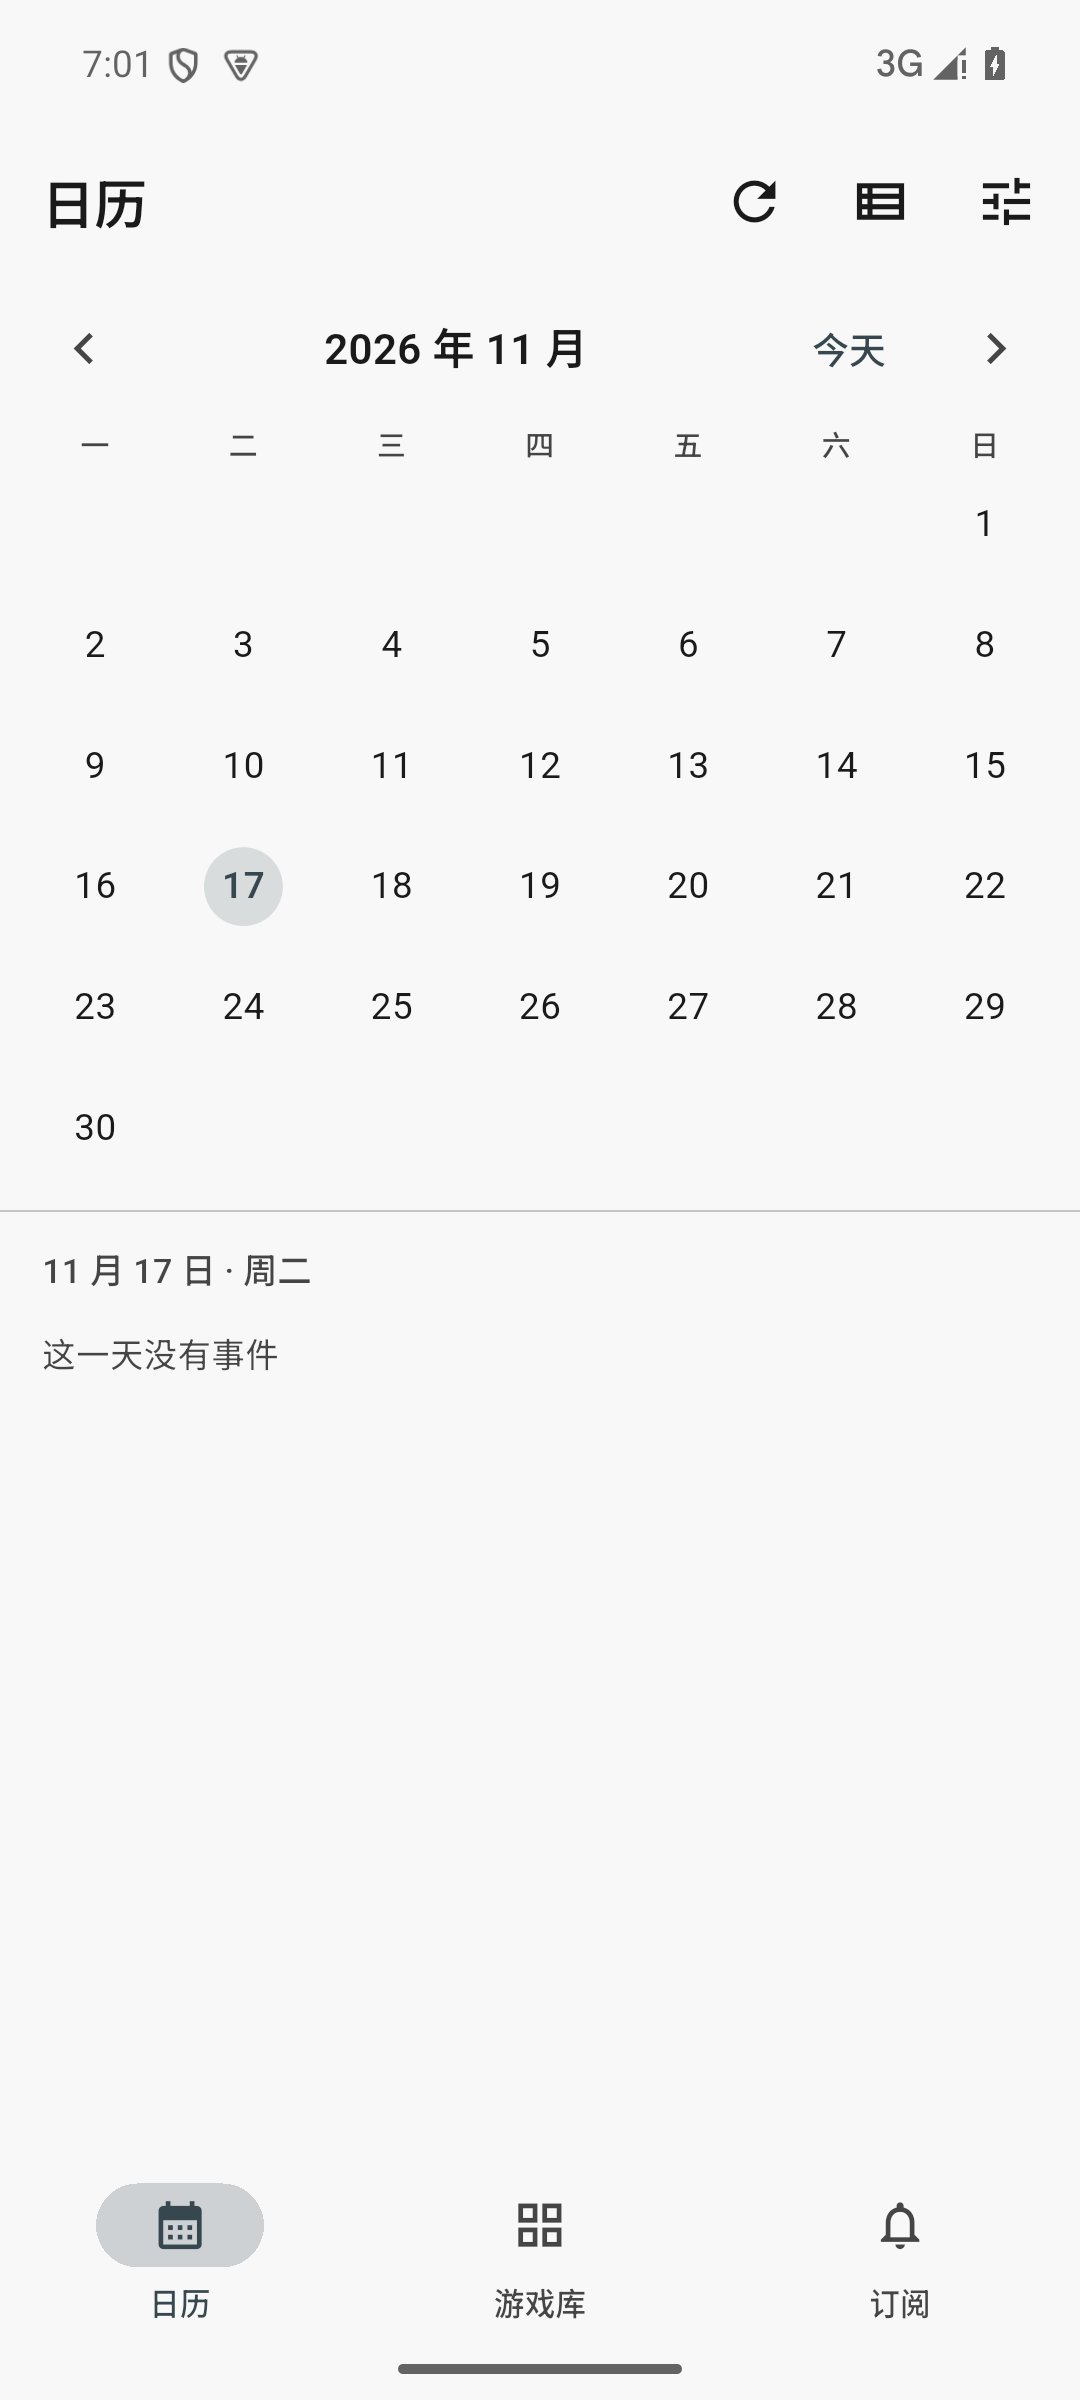
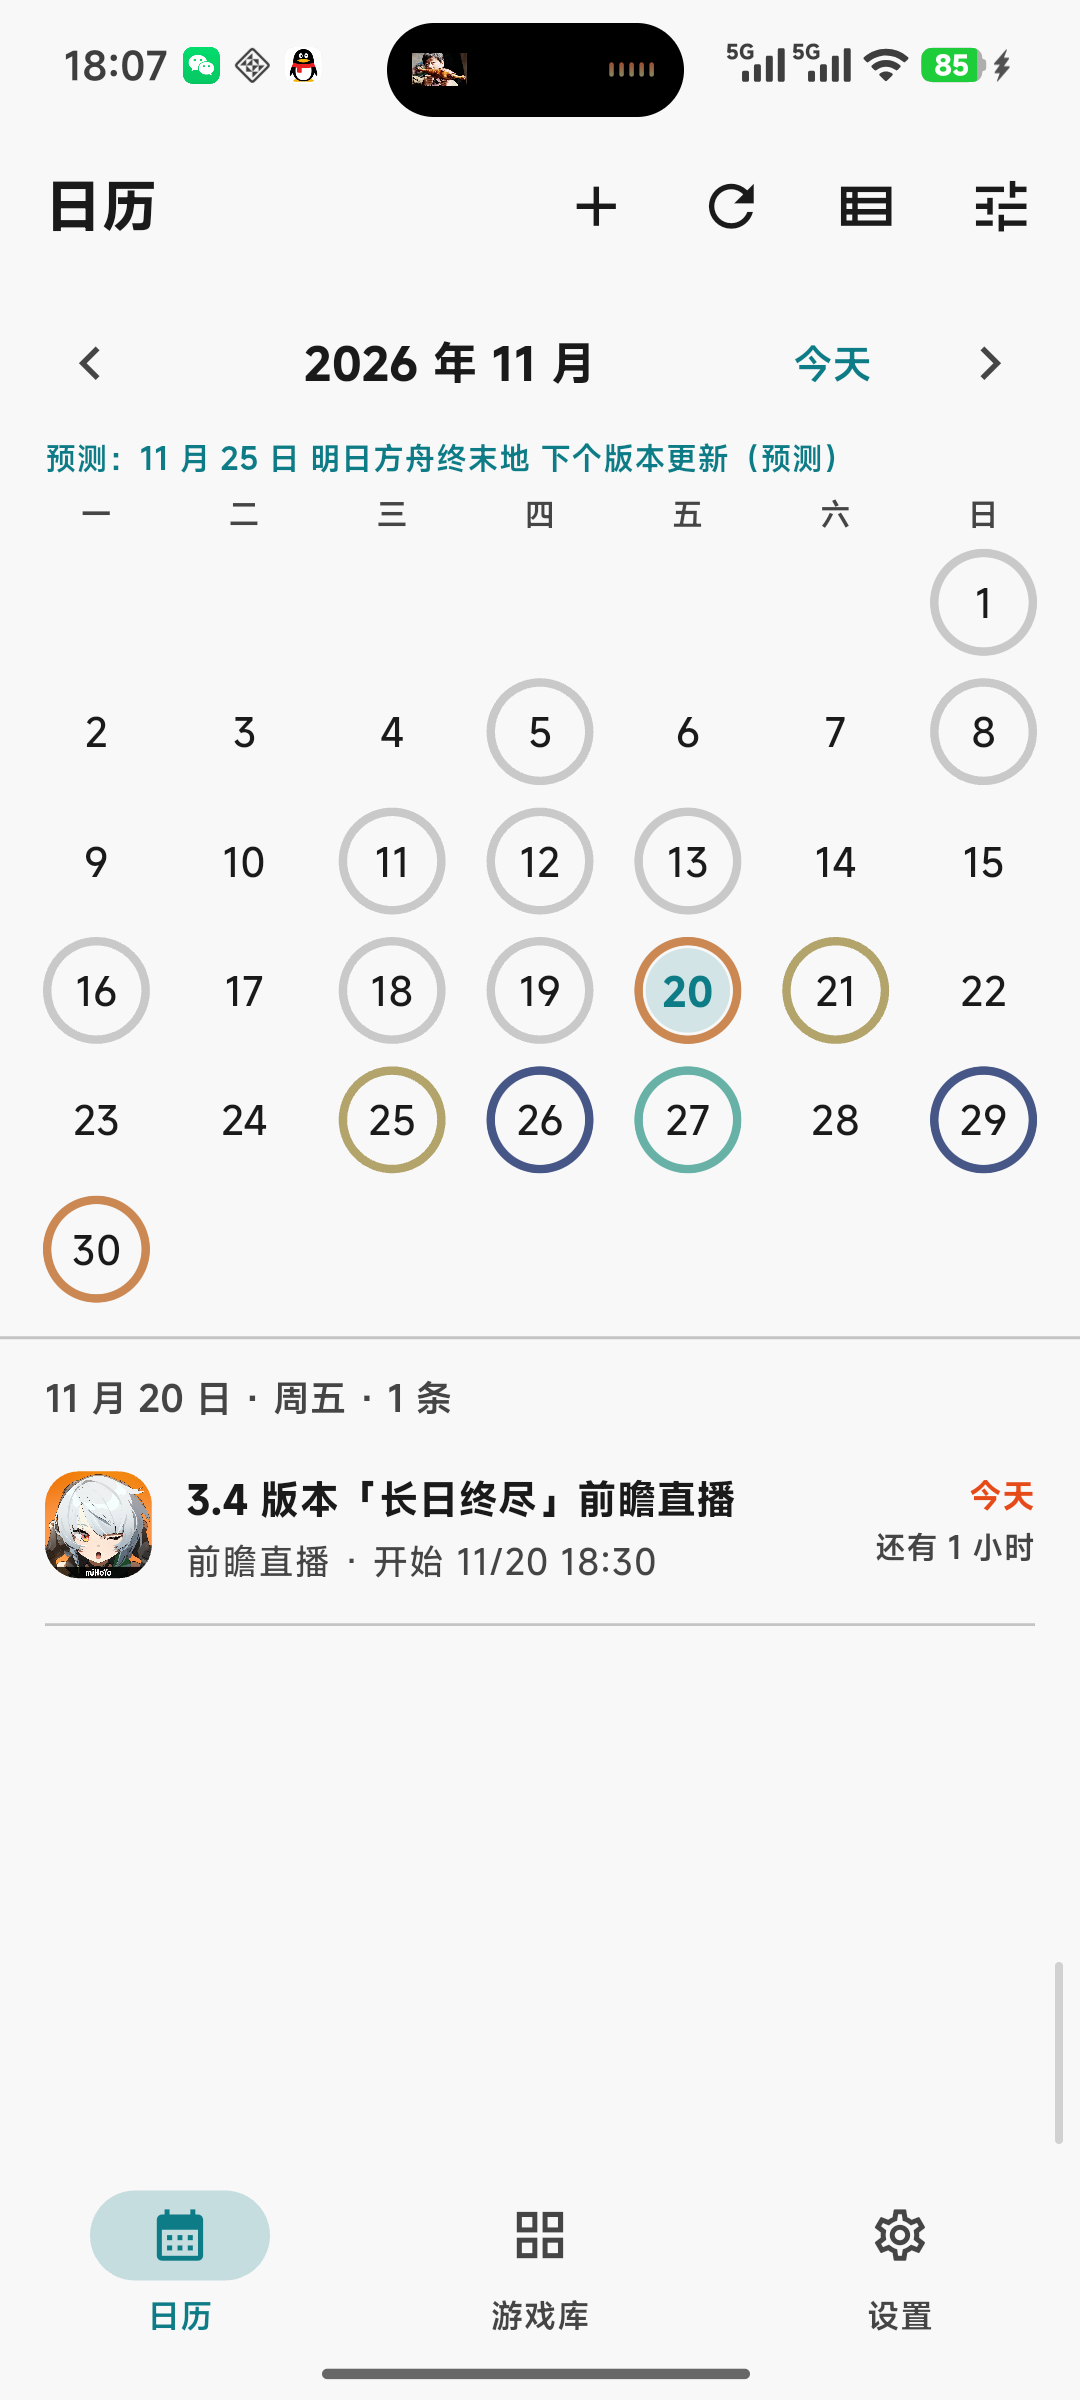
docs: 更新界面截图（列表/月历/详情/游戏库/设置），CHANGELOG 定版 2.16.3
- 截图全部按当前 UI 重拍：新增「设置」标签、检查更新、读取条数等入口
- shot-subscribe.png 改名 shot-settings.png
- README 增加「界面」区块，直接展示 5 张截图
- CHANGELOG 的 [Unreleased] 收成 2.16.3（2026-11-20）

diff --git a/CHANGELOG.md b/CHANGELOG.md
@@ -3,7 +3,7 @@
 格式遵循 [Keep a Changelog](https://keepachangelog.com/zh-CN/1.1.0/)；版本号与 `app/pubspec.yaml` 同源。
 分类只用：新增 / 变更 / 修复 / 移除。
 
-## [Unreleased]
+## [2.16.3] - 2026-11-20
 
 ### 修复
 - **提醒通知 ID 撞车**：`_idFor` 只取事件 id 里的数字、提前量只取分钟个位，
@@ -124,38 +124,6 @@
 - 签名沿用现有 Android debug keystore，由仓库 secret `ANDROID_DEBUG_KEYSTORE_BASE64`
   传给 CI，保证 CI 产物与历史版本同一签名（应用内覆盖安装不失效）。
 - `releases/` 改为不入库（`2.14.3` 的包暂时保留，用于老版本用户升级）。
-## [Unreleased]
-
-### 修复
-- **提醒通知 ID 撞车**：`_idFor` 只取事件 id 里的数字、提前量只取分钟个位，
-  导致同一事件的两条提醒（-1440 / -60）算出同一个 ID，后一条覆盖前一条；
-  拆出来的「开始 / 结束」两条兄弟事件也会互相覆盖。改为对「完整 id + 提前量」做 FNV-1a 哈希，
-  每条提醒都有独立 ID。
-- **刷新失败会清空该账号日程**：全量刷新原本不保留旧事件，某个号被风控/超时一次，
-  它名下的事件就从日历里消失。现在把本轮失败的账号传进 `applyLive(preserveGameIds:)`，
-  保留其原有日程，完成文案也会标注「N 个号失败，已保留其原有日程」。
-- **大模型调用没有重试**：超时 / 连接断 / 429 / 5xx 现在自动重试一次（间隔 900ms）；
-  鉴权错误与内容不合格不重试，避免浪费额度。
-- 刷新完成文案漏改回旧的「已获取完成，共入库…」，已修正为
-  「拉取完成，入库 X 条，新增 Y 条，删除 Z 条」。
-
-### 变更
-- **自动刷新结果可追溯**：后台/前台跑完都会记录结果与时间，设置 → 自动刷新页显示
-  「结果：…」；失败或跳过会标红，便于判断后台到底有没有在跑。
-- **日历列表改为按需构建**（`ListView.builder`）：事件多时不再一次性建出所有行与动画状态。
-- **合并结果加缓存**：`allEvents` 按「数据指纹」缓存，一次 build 内多次调用不再重复合并。
-- **版本号一致性有测试兜底**：`pubspec.yaml` 与 `version.dart` 不一致会直接测试失败。
-- 移除未使用的 `cupertino_icons` 依赖。
-- README 不再硬编码版本号（改为指向 CHANGELOG / 清单），避免文档漂移。
-
-### 工程
-- 新增 `.github/workflows/test.yml`：推 main / PR 时自动跑格式检查、`flutter analyze`、`flutter test`，
-  不再只在打 tag 发版时才验证。
-
-### 测试
-- 新增 8 个用例：通知 id 唯一性/稳定性/取值范围、可重试错误判定、失败账号事件保留、版本号同步。
-  合计 34 → 42 个，全绿。
-
 ## [2.16.2] - 2026-11-20
 
 ### 变更

diff --git a/README.md b/README.md
@@ -39,6 +39,15 @@
 - 大模型 key 只存在本机私有目录；
 - 除了「B 站」和「你自己配置的大模型接口」，App 不连接任何服务器。
 
+## 界面
+
+| 列表 | 月历 |
+| :---: | :---: |
+| ![列表](app/docs/shot-calendar.png) | ![月历](app/docs/shot-calendar-grid.png) |
+
+| 游戏库 | 设置 | 事件详情 |
+| :---: | :---: | :---: |
+| ![游戏库](app/docs/shot-library.png) | ![设置](app/docs/shot-settings.png) | ![详情](app/docs/shot-detail.png) |
 ## 主要功能
 
 - 月历 + 圆环标记，列表/日历两种视图；
